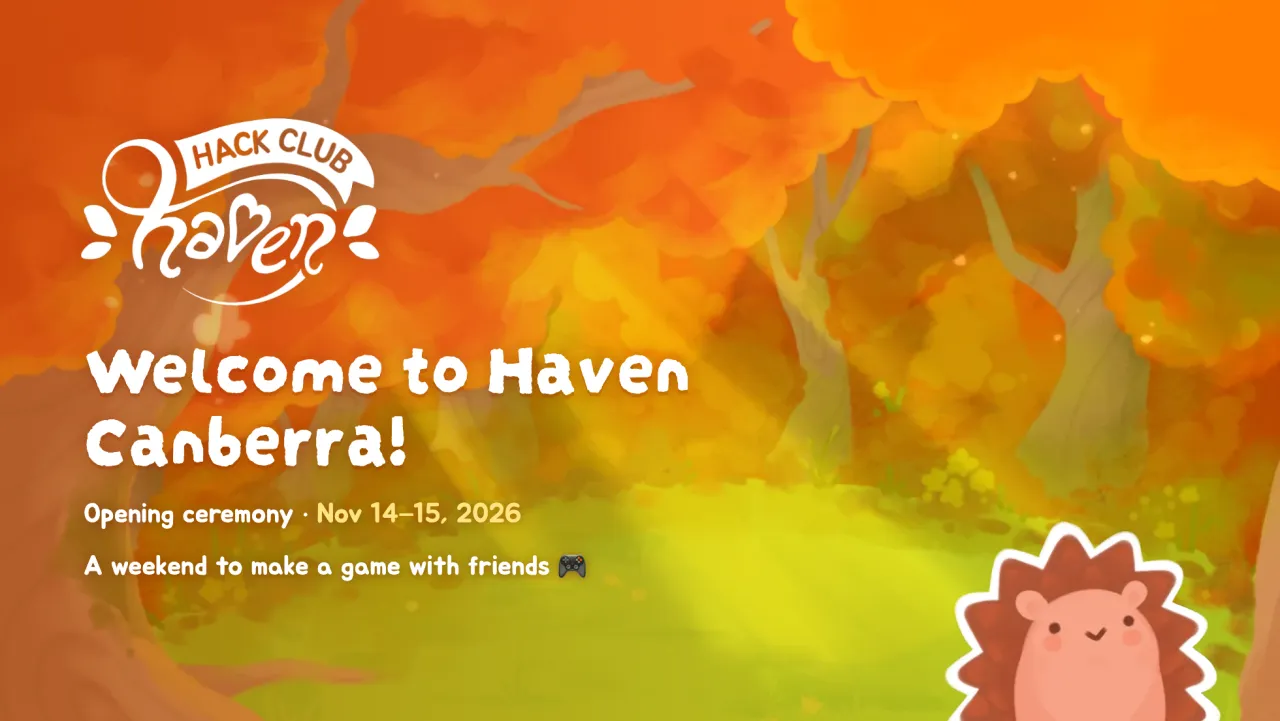
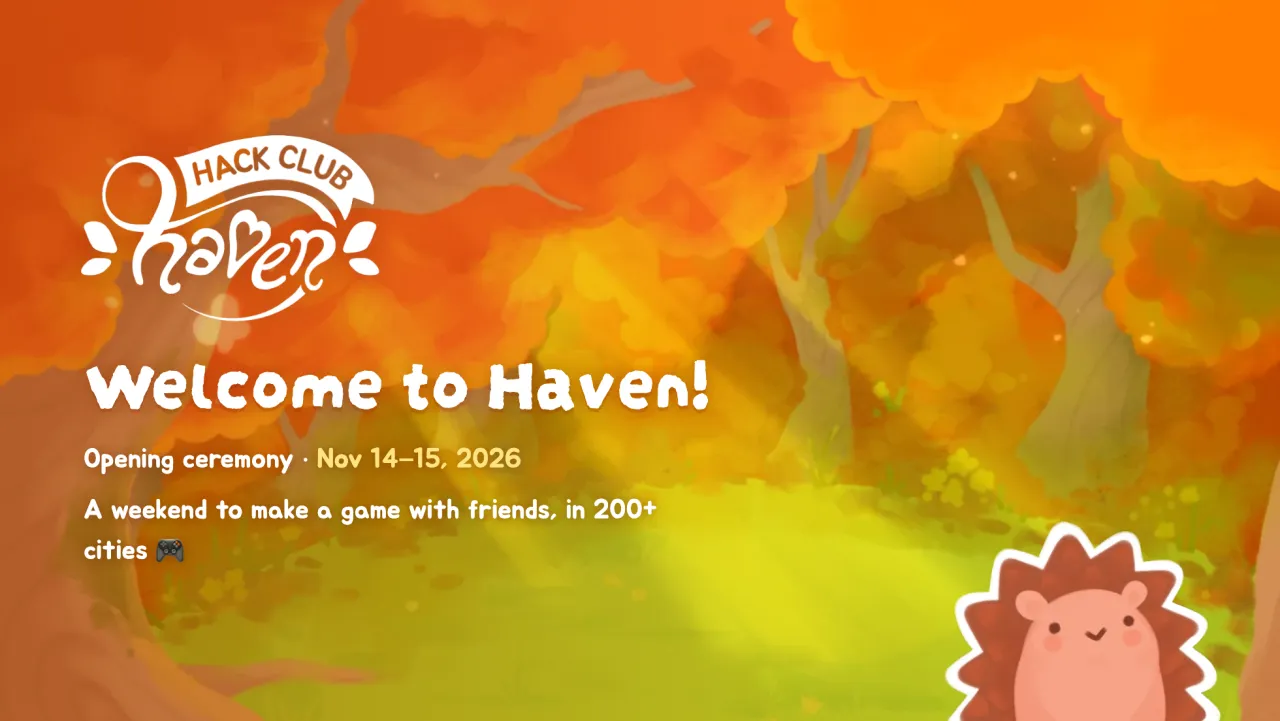
Make demo deck generic Haven content
Drop Canberra-specific title, URL and lanyard detail so any city can start
from the demo; refresh affected README screenshots.

Changed region(s): [[0.0625, 0.4882, 0.5625, 0.8239], [0.0625, 0.1526, 0.3125, 0.4577]]

diff --git a/example.md b/example.md
@@ -1,18 +1,18 @@
 ---
 theme: ./
-title: Haven Canberra — Opening Ceremony
+title: Haven — Opening Ceremony
 info: |
   Demo deck for slidev-theme-haven.
-  Schedule and logistics are placeholder content.
+  Swap the schedule, rooms and links for your own Haven's.
 transition: slide-left
 mdc: true
 ---
 
-# Welcome to Haven Canberra!
+# Welcome to Haven!
 
 Opening ceremony · **Nov 14–15, 2026**
 
-A weekend to make a game with friends 🎮
+A weekend to make a game with friends, in 200+ cities 🎮
 
 <!--
 Cover layout: forest backdrop, white Haven logo, peeking hedgehog.
@@ -86,7 +86,7 @@ What's happening, when, and where to find food
 </div>
 </div>
 
-<!-- Placeholder times — swap in the real run sheet. -->
+<!-- Example times — swap in your own run sheet. -->
 
 ---
 layout: notebook
@@ -126,7 +126,7 @@ New to game dev? Start here.
 - **Juice it!** screen shake, particles & sound
 - **Shipping to itch.io**
 
-<HavenButton class="mt-4" arrow>Sat 2pm · Main room</HavenButton>
+<HavenButton class="mt-4" arrow>Saturday 2pm</HavenButton>
 
 ---
 layout: image-left
@@ -202,7 +202,7 @@ layout: two-cols
 
 ### Need help?
 
-<Bubble tail="left" class="mt-2">Find an organiser in an <mark>orange lanyard</mark>, or ask in <strong>#haven-help</strong> on Slack.</Bubble>
+<Bubble tail="left" class="mt-2">Grab <mark>any organiser</mark>, or ask in <strong class="whitespace-nowrap">#haven-help</strong> on Slack.</Bubble>
 
 <div class="mt-7 px-10">
   <Polaroid src="/photos/friends-1.webp" tilt="-3" max-height="9.5rem" caption="your new friends, probably" />
@@ -236,4 +236,4 @@ layout: end
 
 Doors to the build room are open — go make something real
 
-**haven.hackclub.com/canberra**
+**haven.hackclub.com**

diff --git a/README.md b/README.md
@@ -150,7 +150,8 @@ From the Haven Brand Guide's social media guidelines:
 
 - Background art, logos, mascot and UI pieces come from the haven.hackclub.com site and the
   brand guide's asset folders. Photos in `public/photos` are only for the demo deck.
-- The demo's schedule, workshops and logistics are placeholder content.
+- The demo deck is a generic Haven opening ceremony; its schedule, workshops and food are
+  examples to swap for your own event's.
 - Slidev 53.0.0's own CSS breaks `slidev build`'s CSS minifier, so [vite.config.ts](vite.config.ts)
   turns CSS minification off.
 - Regenerate the screenshots with `npm run screenshot` (needs `npx playwright install chromium`).
